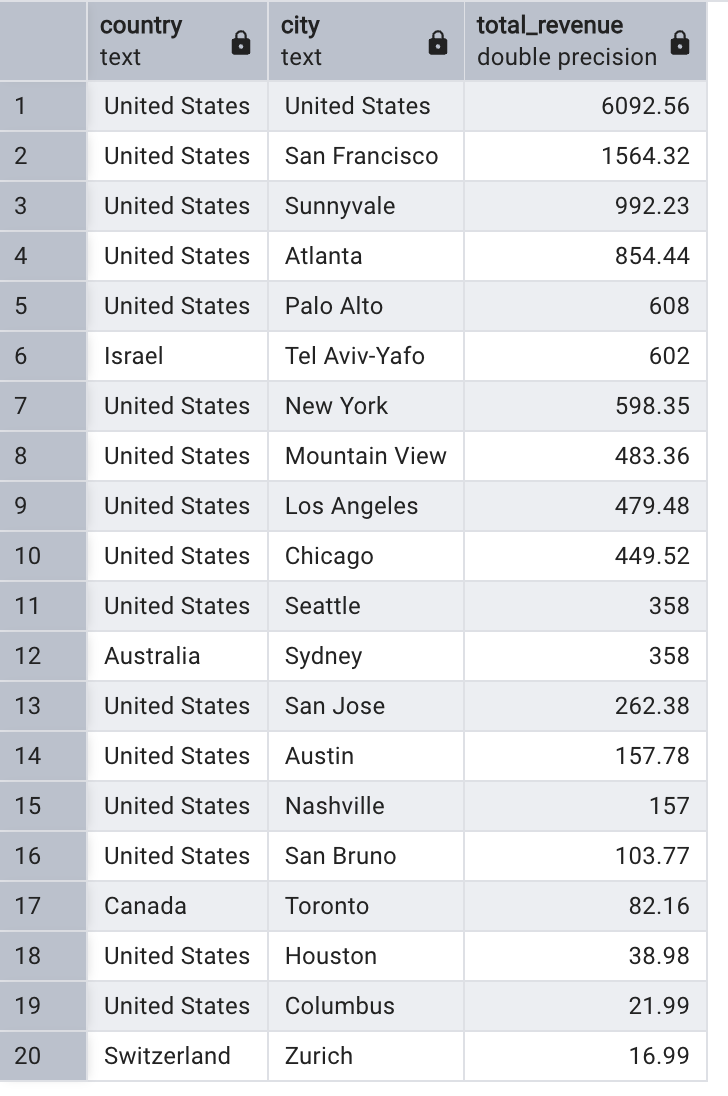
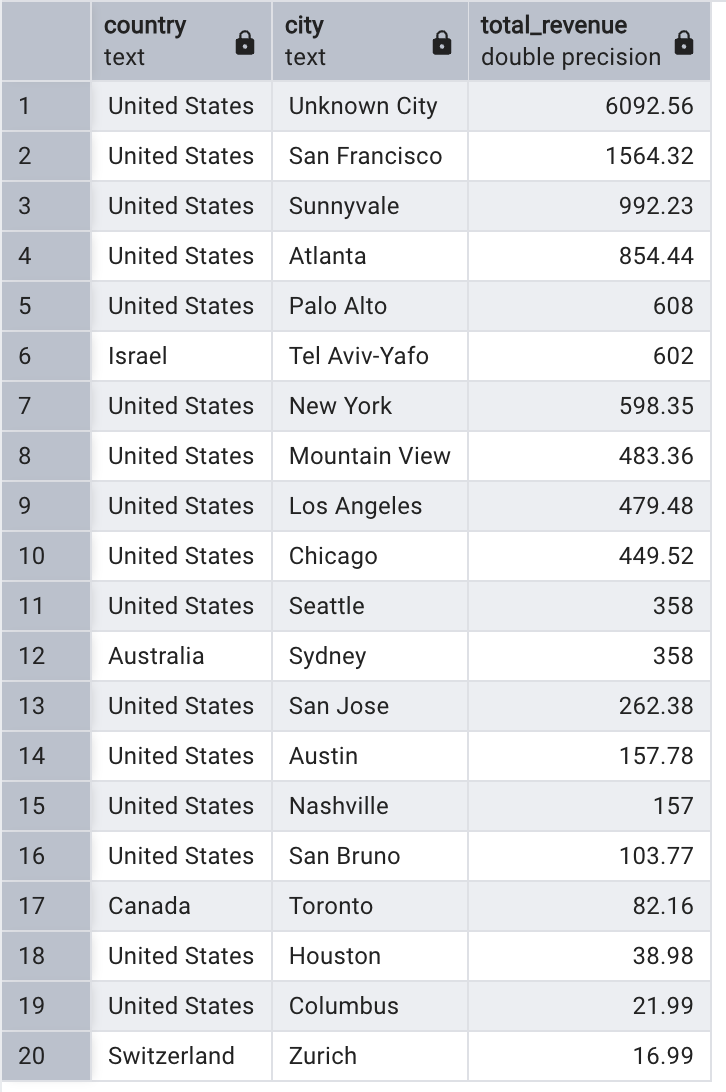
added all solutions to starting_with_questions

diff --git a/starting_with_questions.md b/starting_with_questions.md
@@ -4,23 +4,24 @@ Answer the following questions and provide the SQL queries used to find the answ
 **Question 1: Which cities and countries have the highest level of transaction revenues on the site?**
 
 ```sql 
-WITH CTE1 AS (
-			SELECT	CASE 
-						WHEN country = 'Canada' AND city = 'New York' THEN 'United States'
-            			ELSE country
-        				END AS country,
-					CASE
-					WHEN city IN ('(not set)','not available in demo dataset') THEN country
-					ELSE city
-					END AS city,
-        			total_transaction_revenue
-			FROM 	all_sessions
-			WHERE 	total_transaction_revenue IS NOT NULL
-			)
+WITH CleanedData AS (
+SELECT	CASE 
+			WHEN country = 'Canada' AND city = 'New York' THEN 'United States'
+            ELSE country
+        	END AS country,
+		CASE
+			WHEN city IN ('(not set)','not available in demo dataset') THEN 'Unknown City'
+			ELSE city
+			END AS city,
+        	total_transaction_revenue
+FROM 	all_sessions
+WHERE 	total_transaction_revenue IS NOT NULL
+         			)
 SELECT	country,
     	city,
     	SUM(total_transaction_revenue) / 1000000 AS total_revenue
-FROM 	CTE1
+FROM 	CleanedData
+WHERE	city != 'Unknown City'
 GROUP BY country, city
 ORDER BY total_revenue DESC;
 ```
@@ -30,23 +31,27 @@ Answer:
 ![answer_5_1](./images/question_1.png)
 
 
-
 **Question 2: What is the average number of products ordered from visitors in each city and country?**
 
 
 ```sql
+WITH CleanedData AS (
 SELECT	all_s.country,
 		CASE
-			WHEN all_s.city IN ('(not set)','not available in demo dataset') THEN all_s.country
+			WHEN all_s.city IN ('(not set)','not available in demo dataset') THEN 'Unknown City'
 			ELSE all_s.city
 			END AS city,
 		ROUND(AVG(total_ordered),2) AS avg_total_ordered
 FROM	sales_by_sku AS sales
 		JOIN all_sessions AS all_s
 		ON sales.product_sku = all_s.product_sku
-WHERE 	all_s.city IS NOT NULL OR all_s.country IS NOT NULL
+WHERE 	all_s.city IS NOT NULL AND all_s.country IS NOT NULL
 GROUP BY all_s.country, city
-ORDER BY avg_total_ordered DESC;
+ORDER BY avg_total_ordered DESC
+					)
+SELECT	*
+FROM	CleanedData
+WHERE	city != 'Unknown City';
 ```
 
 Answer:
@@ -54,41 +59,134 @@ Answer:
 ![answer_5_2](./images/question_2.png)
 
 
-
-
 **Question 3: Is there any pattern in the types (product categories) of products ordered from visitors in each city and country?**
 
+```psql
+WITH CleanCategories AS (
+SELECT	CASE
+      		WHEN country = 'Canada' AND city = 'New York' THEN 'United States'
+      		ELSE country
+    		END AS country,
+    	CASE
+      		WHEN city = 'not available in demo dataset' THEN 'Unknown'
+      	ELSE city
+    	END AS city,
+    	REPLACE(v2_product_category, '${escCatTitle}', 'Unknown') AS cleaned_category,
+		total_transaction_revenue
+FROM 	all_sessions
+WHERE 	total_transaction_revenue IS NOT NULL
+						),
+FurtherClean AS (
+SELECT	country,
+    	city,
+	    REGEXP_REPLACE(cleaned_category, '^.*/([^/]+)/?$', '\1') AS product_category,
+		total_transaction_revenue
+FROM 	CleanCategories
+				),
 
-SQL Queries:
-
-
+TotalRevenue AS (
+SELECT	country,
+		city,
+		product_category,
+		SUM(total_transaction_revenue)/1000000 AS total_revenue
+FROM	FurtherClean
+WHERE	product_category NOT IN ('(not set)', 'Unknown')
+GROUP BY country, city, product_category
+				),
+RankBy AS (
+SELECT	country,
+		city,
+		product_category,
+		total_revenue,
+		RANK () OVER(PARTITION BY country, city ORDER BY total_revenue DESC)
+FROM	TotalRevenue
+		)
+SELECT	*
+FROM 	RankBy
+WHERE	rank = 1
+ORDER BY country, total_revenue DESC;
+```
 
 Answer:
 
-
-
+![answer_5_3](./images/question_3.png)
 
 
 **Question 4: What is the top-selling product from each city/country? Can we find any pattern worthy of noting in the products sold?**
 
-
-SQL Queries:
-
-
+```psql
+WITH CleanedData AS (
+SELECT	all_s.country,
+		CASE
+			WHEN all_s.city IN ('(not set)','not available in demo dataset') THEN all_s.country
+			ELSE all_s.city
+			END AS city,
+		LTRIM(p.product_name) AS product_name,	
+		SUM(p.ordered_quantity) AS total_ordered
+FROM	products AS p
+		JOIN all_sessions AS all_s
+		ON p.sku = all_s.product_sku
+GROUP BY all_s.country, all_s.city, p.product_name
+					),
+RankedBy AS (
+SELECT	country,
+		city,
+		product_name,
+		total_ordered,
+		RANK () OVER (PARTITION BY country, city ORDER BY total_ordered DESC)
+FROM	CleanedData
+WHERE	country != '(not set)' 
+		AND city != '(not set)'
+			)
+SELECT	country,
+		city,
+		product_name,
+		total_ordered
+FROM	RankedBy
+WHERE	rank = 1
+ORDER BY country, city;
+```
 
 Answer:
 
-
-
+![answer_5_4](./images/question_4.png)
 
 
 **Question 5: Can we summarize the impact of revenue generated from each city/country?**
 
-SQL Queries:
-
-
+```psql
+WITH CleanedData AS (
+SELECT	CASE
+      		WHEN country = 'Canada' AND city = 'New York' THEN 'United States'
+      		ELSE country
+    		END AS country,
+    	CASE
+      		WHEN city = 'not available in demo dataset' THEN country
+      		ELSE city
+    		END AS city,
+    		total_transaction_revenue
+FROM 	all_sessions
+					),
+RevenueByCity AS (
+SELECT	country,
+		city,
+		SUM(total_transaction_revenue)/1000000 AS total_revenue
+FROM	CleanedData
+WHERE 	total_transaction_revenue IS NOT NULL
+GROUP BY country, city
+				)
+SELECT	country,
+  		city,
+  		total_revenue,
+  		100 * total_revenue/SUM(total_revenue) OVER (PARTITION BY country) AS percent_country_revenue
+FROM 	RevenueByCity
+ORDER BY country, percent_country_revenue DESC;
+```
 
 Answer:
+
+![answer_5_5](./images/question_5.png)
+
 
 
 
